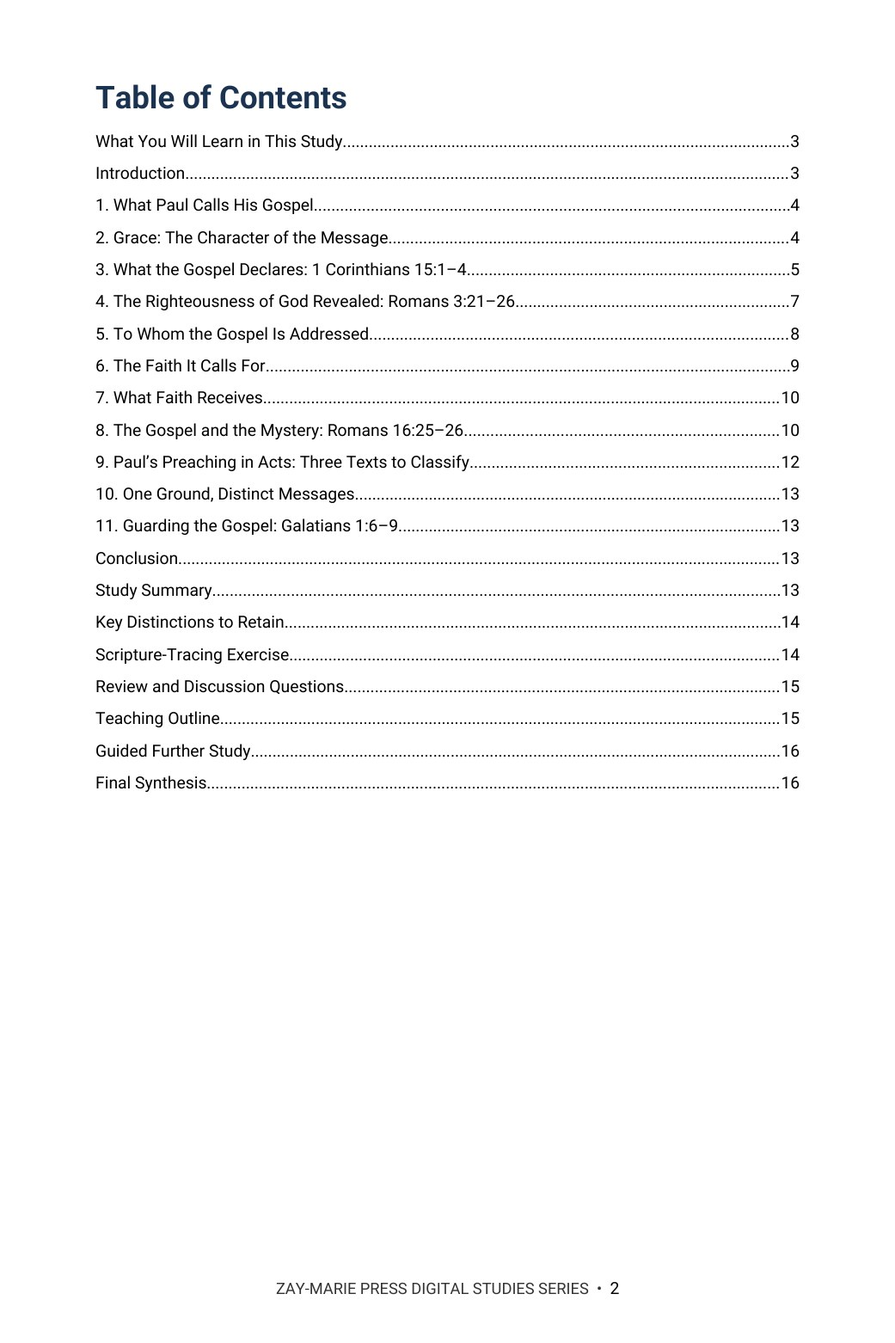
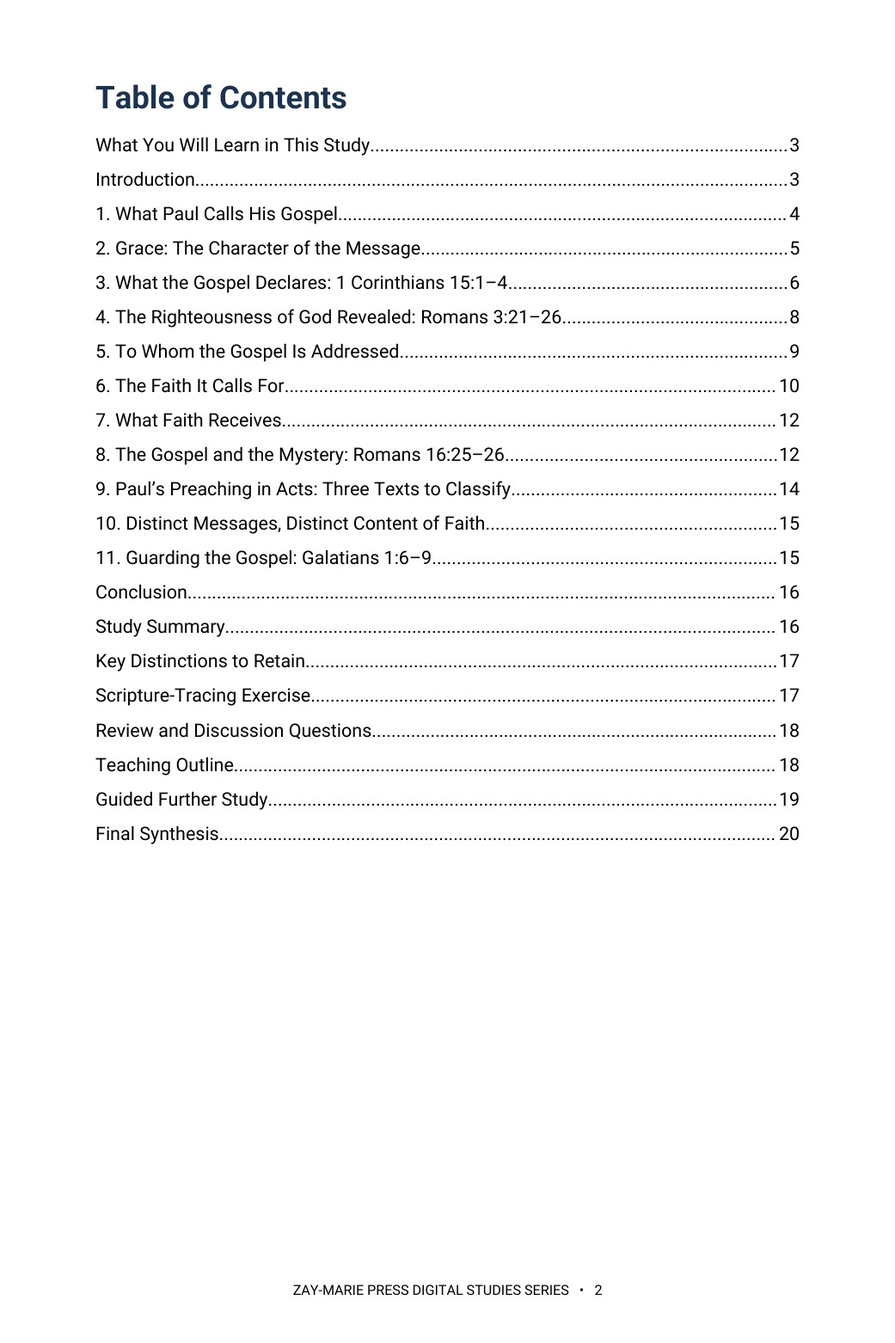
Study 43: Rule 19 retrofit, 20 pages, previews and trackers updated
Claude-Session: https://claude.ai/code/session_01KcENxFzE91mCRyTPWhcwnE

Changed region(s): [[0.0922, 0.0922, 0.6455, 0.6453], [0.8607, 0.0922, 0.8915, 0.6453], [0.3074, 0.9526, 0.6455, 0.9834]]

diff --git a/study-43-the-gospel-of-the-grace-of-god.html b/study-43-the-gospel-of-the-grace-of-god.html
@@ -1,5 +1,5 @@
 <!doctype html>
 <html lang="en"><head><meta charset="utf-8"><meta name="viewport" content="width=device-width,initial-scale=1"><title>The Gospel of the Grace of God | Zay-Marie Press</title><meta name="description" content="Paul called it “my gospel.” Define its content from 1 Corinthians 15 and Romans 3, its audience, the faith it calls for, and how it relates to the Mystery revealed through him. Preview Study 43 from Zay-Marie Press."><link rel="stylesheet" href="styles.css?v=20260921-4"><link rel="icon" type="image/png" href="assets/zay-marie-press-favicon.png"><style>
 .study-detail-page{background:#fff;color:#252525}.detail-hero{background:linear-gradient(135deg,#f8f5ec,#e3ece2);padding:58px 0}.detail-hero-grid{display:grid;grid-template-columns:minmax(250px,.72fr) minmax(0,1.28fr);gap:58px;align-items:center}.detail-cover{max-width:390px;margin:auto}.detail-cover img{display:block;width:100%;height:auto;box-shadow:0 14px 36px rgba(8,45,69,.18)}.detail-hero h1{font-size:clamp(2.7rem,5vw,4.7rem);line-height:1.02;margin:8px 0 10px;color:#143823}.detail-subtitle{font-family:Georgia,serif;font-size:1.35rem;font-weight:700;color:#082d45;margin:0 0 7px}.detail-kicker{font-family:Georgia,serif;font-style:italic;font-size:1.05rem;color:#4a4a44;margin:0 0 22px}.detail-copy{font-size:1.08rem;line-height:1.65;max-width:760px}.detail-buyline{display:flex;align-items:center;gap:18px;flex-wrap:wrap;margin-top:25px}.detail-price{font-family:Georgia,serif;font-size:2rem;font-weight:700;color:#143823}.detail-format,.preview-card .page-no{font-family:Arial,sans-serif;font-size:.76rem;font-weight:700;letter-spacing:.1em;text-transform:uppercase;color:#176b3a}.detail-button{display:inline-block;background:#176b3a;color:#fff;padding:13px 22px;font-family:Arial,sans-serif;font-size:.8rem;font-weight:700;letter-spacing:.07em;text-transform:uppercase}.detail-button.pending{opacity:.72;cursor:default}.detail-section{padding:66px 0}.detail-section.soft{background:#f6f7f2}.detail-section.cream{background:#faf8f2}.detail-section h2{color:#143823;margin:6px 0 18px;font-size:clamp(2rem,3.4vw,3rem)}.detail-section .lead{max-width:920px;font-size:1.1rem;line-height:1.62}.study-distinction{max-width:920px;margin-top:28px;margin-bottom:28px;padding:26px 28px;background:#fff;border:1px solid #d8d1bf;border-left:4px solid #b8871c}.study-distinction h3{margin:0 0 10px;color:#143823}.study-distinction p{margin:0 0 14px;line-height:1.62}.study-distinction a{font-family:Arial,sans-serif;font-weight:700;color:#176b3a;text-decoration:none}.study-points{display:grid;grid-template-columns:repeat(3,1fr);gap:18px;margin-top:28px;margin-bottom:28px}.study-point,.scripture-card,.preview-card,.include-item{background:#fff;border:1px solid var(--line);text-align:left}.study-point{border-top:3px solid #176b3a;padding:22px}.study-point h3{color:#143823;margin:0 0 8px;font-size:1.2rem}.study-point p,.scripture-card p,.preview-card p,.include-item p{margin:0;line-height:1.55}.scripture-grid{display:grid;grid-template-columns:repeat(4,1fr);gap:14px;margin-top:24px;margin-bottom:24px}.scripture-card{padding:22px 20px;color:#143823}.scripture-card h3{margin:0 0 9px;font-family:Georgia,serif;font-size:1rem;line-height:1.35}.scripture-card p{font-size:.94rem;color:#45453f}.excerpt{max-width:900px;margin:28px auto;border-left:4px solid #b8871c;padding:10px 0 10px 28px}.excerpt blockquote{font-family:Georgia,serif;font-size:clamp(1.45rem,2.5vw,2rem);line-height:1.45;color:#143823;margin:0 0 16px}.excerpt p{line-height:1.6;margin:0}.preview-grid{display:grid;grid-template-columns:repeat(3,1fr);gap:20px;margin-top:28px;margin-bottom:28px}.preview-card{padding:18px;min-height:210px;box-shadow:0 7px 20px rgba(20,40,25,.05)}.preview-image-link{display:block;margin:0 0 18px}.preview-image-link img{display:block;width:100%;height:auto;border:1px solid #d8d1bf;box-shadow:0 8px 22px rgba(20,40,25,.1);transition:transform .18s ease,box-shadow .18s ease}.preview-image-link:hover img{transform:translateY(-2px);box-shadow:0 11px 28px rgba(20,40,25,.16)}.preview-card h3{color:#143823;margin:8px 0 10px}.preview-instruction{margin:10px 0 0;font-family:Arial,sans-serif;font-size:.78rem;letter-spacing:.04em;color:#5b5b55}.includes-grid{display:grid;grid-template-columns:repeat(4,1fr);gap:14px;margin-top:26px}.include-item{padding:22px 20px;color:#143823}.include-item h3{margin:0 0 9px;font-family:Arial,sans-serif;font-size:.86rem;line-height:1.35;letter-spacing:.02em}.include-item p{font-size:.94rem;color:#45453f}.final-buy{background:#082d45;color:#fff;border-top:4px solid #b8871c;padding:42px 48px;display:grid;grid-template-columns:1fr auto;gap:36px;align-items:center}.final-buy .eyebrow,.final-buy h2,.final-buy .detail-price{color:#fff}.final-buy h2{margin:7px 0 6px}.final-buy p{margin:0}.final-offer{text-align:center}.back-link{display:inline-block;margin-top:18px;color:#143823;font-family:Arial,sans-serif;font-weight:700;text-decoration:none}.preview-lightbox{position:fixed;inset:0;z-index:10000;display:none;align-items:flex-start;justify-content:center;background:rgba(8,22,16,.88);padding:24px;overflow:auto}.preview-lightbox.open{display:flex}.preview-lightbox img{display:block;width:auto;height:auto;max-width:none;box-shadow:0 18px 55px rgba(0,0,0,.4);background:#fff}.preview-lightbox-close{position:fixed;top:18px;right:24px;z-index:10001;width:46px;height:46px;border:1px solid rgba(255,255,255,.65);border-radius:50%;background:rgba(0,0,0,.55);color:#fff;font:32px/1 Arial,sans-serif;cursor:pointer}@media(max-width:900px){.detail-hero-grid{grid-template-columns:1fr;gap:34px}.detail-cover{max-width:330px}.study-points{grid-template-columns:repeat(2,1fr)}.scripture-grid,.includes-grid{grid-template-columns:repeat(2,1fr)}.preview-grid,.final-buy{grid-template-columns:1fr}.final-offer{text-align:left}}@media(max-width:560px){.detail-hero{padding:42px 0}.detail-section{padding:50px 0}.study-points,.scripture-grid,.includes-grid{grid-template-columns:1fr}.final-buy{padding:32px 24px}.detail-buyline{align-items:flex-start;flex-direction:column;gap:8px}.preview-lightbox{padding:58px 10px 24px}.preview-lightbox img{width:100%;max-width:100%;height:auto}} .detail-hero h1{font-size:clamp(2.1rem,4.2vw,3.7rem);line-height:1.08}</style></head><body class="study-detail-page">
-<header class="site-header"><div class="wrap nav"><a class="logo" href="index.html" aria-label="Zay-Marie Press home"><img src="assets/zay-marie-press-logo-hq.png" alt="Zay-Marie Press" width="420" height="238"></a><button class="menu-toggle" type="button" aria-expanded="false" aria-controls="primary-nav">MENU</button><nav aria-label="Primary navigation" class="primary-nav" id="primary-nav"><a href="index.html">HOME</a><a href="books.html">BOOKS</a><a href="series.html">SERIES</a><a class="active" aria-current="page" href="digital-studies.html">DIGITAL STUDIES</a><a href="biblical-hermeneutics-course.html">COURSE</a><a href="about.html">ABOUT</a><a href="resources.html">RESOURCES</a><a href="contact.html">CONTACT</a></nav></div></header><main><section class="detail-hero"><div class="wrap detail-hero-grid"><div class="detail-cover"><picture><source srcset="assets/study-43-cover.webp" type="image/webp"><img src="assets/study-43-cover.jpg" alt="The Gospel of the Grace of God — Study 43 cover"></picture></div><div><div class="eyebrow">STUDY 43 · DIGITAL STUDY</div><h1>The Gospel of the Grace of God</h1><p class="detail-subtitle">Paul’s Gospel: Its Content, Its Audience, and the Faith It Calls For</p><p class="detail-kicker">A Biblical Definition of Paul’s Gospel — Its Names, Its Content, Its Audience, and the Faith It Calls For</p><p class="detail-copy">Paul described his whole ministry in one phrase. He told the elders of Ephesus that he counted nothing dear to himself so that he might finish “the ministry, which I have received of the Lord Jesus, to testify the gospel of the grace of God” (Acts 20:24). Many readers use the word “gospel” for any presentation of Christ. Paul used it with precision. He spoke of “my gospel,” warned against “another gospel,” and pronounced a curse on anyone who changed it.</p><p class="detail-copy">This study asks what that gospel is: what Paul calls it, what it declares, to whom it is addressed, what response it calls for, and how it relates to the Mystery revealed through him. It does not repeat the full comparison with the Gospel of the Kingdom, which Study 2 examines, or the argument of James 2, which Study 15 treats.</p><div class="detail-buyline"><span class="detail-price">$5.99</span><span class="detail-format">Digital PDF · 16 Pages</span><span class="detail-button pending" aria-disabled="true">Checkout Coming Soon</span></div></div></div></section><section class="detail-section"><div class="wrap"><div class="eyebrow">ABOUT THIS STUDY</div><h2>One Gospel, Defined With Precision</h2><p class="lead">Paul spoke of his gospel with exact language: its names, its content, its audience, and the response it calls for. Reading those distinctions in order removes the vagueness that lets “gospel” mean whatever a reader assumes.</p><p class="lead">This study follows Paul’s own words rather than a general definition. It states what he calls the message, what 1 Corinthians 15:1–4 declares as its content, how Romans 3:21–26 explains the righteousness it reveals, and why he treated any addition to faith as grounds for a curse.</p><p class="lead">This is not a study of the Kingdom message Israel was called to believe, which Study 2 defines on its own terms, nor of the Mystery’s full revealed content, which Study 6 identifies separately, nor of when the Body itself began, which Study 11 asks directly. Its task is narrower: to hold Paul’s gospel to his own stated terms rather than a general definition of the word, and to show why treating it as one more variation on a message announced to Israel empties his own distinctions of their force.</p><div class="study-distinction"><h3>How These Studies Relate</h3><p>Study 43 defines the gospel Paul preached for the Body of Christ — its names, its content, its audience, and the faith it calls for.</p><p><a href="study-02-the-gospel-of-the-kingdom.html">Study 2 — The Gospel of the Kingdom</a> Read the Kingdom message Israel was called to believe; this study distinguishes it from Paul’s gospel without merging their audiences, content, or programmatic authority.</p><p><a href="study-06-the-mystery-revealed-through-paul.html">Study 6 — The Mystery Revealed Through Paul</a> Examine the previously hidden truth Paul was given to reveal; this study relates that Mystery to the gospel he preached without collapsing the two.</p><p><a href="study-11-the-beginning-of-the-body-of-christ.html">Study 11 — The Beginning of the Body of Christ</a> Ask when the Body began; this study identifies the gospel by which its members are justified, reconciled, and placed into that Body.</p><p class="connection-guide-link"><a href="study-connections.html#study-43">Explore the full connection guide for Study 43 →</a></p></div></div></section><section class="detail-section soft"><div class="wrap"><div class="eyebrow">WHAT YOU’LL STUDY</div><h2>Define the Gospel From Paul’s Own Words</h2><div class="study-points"><div class="study-point"><h3>The Names Paul Gives It</h3><p>See what “the gospel of God,” “the gospel of Christ,” “the gospel of the grace of God,” and “my gospel” each identify.</p></div><div class="study-point"><h3>Grace as Its Character</h3><p>Define grace by contrast with debt, and test what that definition means for every earned addition.</p></div><div class="study-point"><h3>Its Content: 1 Corinthians 15</h3><p>State the three facts Paul names as of first importance: died, buried, rose again.</p></div><div class="study-point"><h3>Its Ground: Romans 3:21–26</h3><p>See how God is both just and the justifier through the propitiation in Christ’s blood.</p></div><div class="study-point"><h3>Its Audience and Its Faith</h3><p>Read to whom Paul addresses the gospel, what response it calls for, and what he says the one who believes receives.</p></div><div class="study-point"><h3>The Gospel and the Mystery</h3><p>Test how the gospel relates to the Mystery revealed through Paul.</p></div></div></div></section><section class="detail-section cream"><div class="wrap"><div class="eyebrow">KEY SCRIPTURES</div><h2>Examine the Passages for Yourself</h2><div class="scripture-grid"><div class="scripture-card"><h3>Acts 20:24</h3><p>Paul names the message he counted his whole ministry to testify: “the gospel of the grace of God.”</p></div><div class="scripture-card"><h3>1 Corinthians 15:3–4</h3><p>Christ died, was buried, and rose again “according to the scriptures” — the gospel’s content stated in three clauses.</p></div><div class="scripture-card"><h3>Romans 3:21–26</h3><p>The righteousness of God is manifested, so that He is both just and the justifier of the one who believes.</p></div><div class="scripture-card"><h3>Romans 1:16</h3><p>“To the Jew first, and also to the Greek” — the gospel’s audience and the order of its address.</p></div><div class="scripture-card"><h3>Romans 4:5</h3><p>“To him that worketh not, but believeth” — faith alone, without works, counted for righteousness.</p></div><div class="scripture-card"><h3>Ephesians 1:13–14</h3><p>The one who believes is sealed with the Holy Spirit, the earnest of the inheritance.</p></div><div class="scripture-card"><h3>Romans 16:25–26</h3><p>The gospel opens onto “the revelation of the mystery” made known through Paul.</p></div><div class="scripture-card"><h3>Galatians 1:6–9</h3><p>Paul’s warning against preaching “another gospel” to the churches of Galatia.</p></div></div></div></section><section class="detail-section"><div class="wrap"><div class="eyebrow">FROM THE STUDY</div><h2>Foretold, Yet Hidden</h2><div class="excerpt"><blockquote>“Foretold facts ≠ the hidden purpose revealed through Paul.”</blockquote><p>The gospel’s content was written beforehand in the Law and the Prophets. The Mystery Paul was given to reveal is a distinct truth, previously hidden and revealed through him — related in subject, but never merged.</p></div></div></section><section class="detail-section soft"><div class="wrap"><div class="eyebrow">A LOOK INSIDE</div><h2>Preview the Study Before You Purchase</h2><p class="preview-instruction">Click any page to enlarge it for reading.</p><div class="preview-grid"><div class="preview-card"><a class="preview-image-link" data-preview-lightbox href="assets/study-43-page-2.jpg"><img src="assets/study-43-page-2.jpg" alt="Study 43 interior preview — page 2, table of contents"/></a><div class="page-no">Page 2</div><h3>Table of Contents</h3><p>See the full structure of the study, from the introduction through the final synthesis.</p></div><div class="preview-card"><a class="preview-image-link" data-preview-lightbox href="assets/study-43-page-3.jpg"><img src="assets/study-43-page-3.jpg" alt="Study 43 interior preview — page 3, what you will learn"/></a><div class="page-no">Page 3</div><h3>What You Will Learn</h3><p>See the study’s goals, controls, and central question at a glance.</p></div><div class="preview-card"><a class="preview-image-link" data-preview-lightbox href="assets/study-43-page-8.jpg"><img src="assets/study-43-page-8.jpg" alt="Study 43 interior preview — page 8, to whom the gospel is addressed"/></a><div class="page-no">Page 8</div><h3>To Whom the Gospel Is Addressed</h3><p>See how the study reads “no difference” and “to the Jew first” in Paul’s own words.</p></div></div></div></section><section class="detail-section"><div class="wrap"><div class="eyebrow">WHAT’S INCLUDED</div><h2>A Focused Study Built for<br>Understanding and Teaching</h2><div class="includes-grid"><div class="include-item"><h3>16-Page In-Depth Biblical Study</h3><p>A careful definition of the gospel Paul preached for the Body of Christ.</p></div><div class="include-item"><h3>11 Core Teaching Sections</h3><p>Progress from the gospel’s names through its content, ground, audience, and its relation to the Mystery.</p></div><div class="include-item"><h3>Five Reference Tables</h3><p>Compare the names of the gospel, test common additions to faith against Paul’s own words, and read key passages side by side in the KJV.</p></div><div class="include-item"><h3>16 Review Questions</h3><p>Test the study’s distinctions concerning content, audience, faith, and the Mystery.</p></div><div class="include-item"><h3>Teaching Outline</h3><p>A ready ten-point framework for teaching the gospel of the grace of God with precision.</p></div><div class="include-item"><h3>Guided Further Study</h3><p>Return to the gospel’s names, its content, its audience, and the Mystery with directed questions.</p></div><div class="include-item"><h3>Scripture-Tracing Exercise</h3><p>Trace the gospel’s key terms across Paul’s letters in their own context.</p></div><div class="include-item"><h3>Final Synthesis Exercise</h3><p>Bring the evidence together in one coherent, Scripture-based explanation.</p></div></div></div></section><section class="detail-section cream"><div class="wrap"><div class="final-buy"><div><div class="eyebrow">STUDY 43 · DIGITAL STUDY</div><h2>The Gospel of the Grace of God</h2><p>16-page digital PDF · For personal use</p></div><div class="final-offer"><div class="detail-price">$5.99</div><span class="detail-button pending" aria-disabled="true">Checkout Coming Soon</span></div></div><a class="back-link" href="digital-studies.html">← Back to All Digital Studies</a></div></section><section class="study-method-course-bridge"><div class="wrap"><div class="study-method-course-panel"><div><div class="eyebrow">BUILD THE INTERPRETIVE METHOD</div><h2>Want More Than a Focused Study?</h2><p>Digital Studies examine particular biblical subjects and difficult passages. The 40-lesson Biblical Hermeneutics course teaches a complete, repeatable method for establishing meaning in context, determining proper assignment, and making responsible application.</p></div><a class="btn btn-primary" href="biblical-hermeneutics-course.html">BIBLICAL HERMENEUTICS COURSE</a></div></div></section></main>
+<header class="site-header"><div class="wrap nav"><a class="logo" href="index.html" aria-label="Zay-Marie Press home"><img src="assets/zay-marie-press-logo-hq.png" alt="Zay-Marie Press" width="420" height="238"></a><button class="menu-toggle" type="button" aria-expanded="false" aria-controls="primary-nav">MENU</button><nav aria-label="Primary navigation" class="primary-nav" id="primary-nav"><a href="index.html">HOME</a><a href="books.html">BOOKS</a><a href="series.html">SERIES</a><a class="active" aria-current="page" href="digital-studies.html">DIGITAL STUDIES</a><a href="biblical-hermeneutics-course.html">COURSE</a><a href="about.html">ABOUT</a><a href="resources.html">RESOURCES</a><a href="contact.html">CONTACT</a></nav></div></header><main><section class="detail-hero"><div class="wrap detail-hero-grid"><div class="detail-cover"><picture><source srcset="assets/study-43-cover.webp" type="image/webp"><img src="assets/study-43-cover.jpg" alt="The Gospel of the Grace of God — Study 43 cover"></picture></div><div><div class="eyebrow">STUDY 43 · DIGITAL STUDY</div><h1>The Gospel of the Grace of God</h1><p class="detail-subtitle">Paul’s Gospel: Its Content, Its Audience, and the Faith It Calls For</p><p class="detail-kicker">A Biblical Definition of Paul’s Gospel — Its Names, Its Content, Its Audience, and the Faith It Calls For</p><p class="detail-copy">Paul described his whole ministry in one phrase. He told the elders of Ephesus that he counted nothing dear to himself so that he might finish “the ministry, which I have received of the Lord Jesus, to testify the gospel of the grace of God” (Acts 20:24). Many readers use the word “gospel” for any presentation of Christ. Paul used it with precision. He spoke of “my gospel,” warned against “another gospel,” and pronounced a curse on anyone who changed it.</p><p class="detail-copy">This study asks what that gospel is: what Paul calls it, what it declares, to whom it is addressed, what response it calls for, and how it relates to the Mystery revealed through him. It does not repeat the full comparison with the Gospel of the Kingdom, which Study 2 examines, or the argument of James 2, which Study 15 treats.</p><div class="detail-buyline"><span class="detail-price">$5.99</span><span class="detail-format">Digital PDF · 20 Pages</span><span class="detail-button pending" aria-disabled="true">Checkout Coming Soon</span></div></div></div></section><section class="detail-section"><div class="wrap"><div class="eyebrow">ABOUT THIS STUDY</div><h2>One Gospel, Defined With Precision</h2><p class="lead">Paul spoke of his gospel with exact language: its names, its content, its audience, and the response it calls for. Reading those distinctions in order removes the vagueness that lets “gospel” mean whatever a reader assumes.</p><p class="lead">This study follows Paul’s own words rather than a general definition. It states what he calls the message, what 1 Corinthians 15:1–4 declares as its content, how Romans 3:21–26 explains the righteousness it reveals, and why he treated any addition to faith as grounds for a curse.</p><p class="lead">This is not a study of the Kingdom message Israel was called to believe, which Study 2 defines on its own terms, nor of the Mystery’s full revealed content, which Study 6 identifies separately, nor of when the Body itself began, which Study 11 asks directly. Its task is narrower: to hold Paul’s gospel to his own stated terms rather than a general definition of the word, and to show why treating it as one more variation on a message announced to Israel empties his own distinctions of their force.</p><div class="study-distinction"><h3>How These Studies Relate</h3><p>Study 43 defines the gospel Paul preached for the Body of Christ — its names, its content, its audience, and the faith it calls for.</p><p><a href="study-02-the-gospel-of-the-kingdom.html">Study 2 — The Gospel of the Kingdom</a> Read the Kingdom message Israel was called to believe; this study distinguishes it from Paul’s gospel without merging their audiences, content, or programmatic authority.</p><p><a href="study-06-the-mystery-revealed-through-paul.html">Study 6 — The Mystery Revealed Through Paul</a> Examine the previously hidden truth Paul was given to reveal; this study relates that Mystery to the gospel he preached without collapsing the two.</p><p><a href="study-11-the-beginning-of-the-body-of-christ.html">Study 11 — The Beginning of the Body of Christ</a> Ask when the Body began; this study identifies the gospel by which its members are justified, reconciled, and placed into that Body.</p><p class="connection-guide-link"><a href="study-connections.html#study-43">Explore the full connection guide for Study 43 →</a></p></div></div></section><section class="detail-section soft"><div class="wrap"><div class="eyebrow">WHAT YOU’LL STUDY</div><h2>Define the Gospel From Paul’s Own Words</h2><div class="study-points"><div class="study-point"><h3>The Names Paul Gives It</h3><p>See what “the gospel of God,” “the gospel of Christ,” “the gospel of the grace of God,” and “my gospel” each identify.</p></div><div class="study-point"><h3>Grace as Its Character</h3><p>Define grace by contrast with debt, and test what that definition means for every earned addition.</p></div><div class="study-point"><h3>Its Content: 1 Corinthians 15</h3><p>State the three facts Paul names as of first importance: died, buried, rose again.</p></div><div class="study-point"><h3>Its Ground: Romans 3:21–26</h3><p>See how God is both just and the justifier through the propitiation in Christ’s blood.</p></div><div class="study-point"><h3>Its Audience and Its Faith</h3><p>Read to whom Paul addresses the gospel, what response it calls for, and what he says the one who believes receives.</p></div><div class="study-point"><h3>The Gospel and the Mystery</h3><p>Test how the gospel relates to the Mystery revealed through Paul.</p></div></div></div></section><section class="detail-section cream"><div class="wrap"><div class="eyebrow">KEY SCRIPTURES</div><h2>Examine the Passages for Yourself</h2><div class="scripture-grid"><div class="scripture-card"><h3>Acts 20:24</h3><p>Paul names the message he counted his whole ministry to testify: “the gospel of the grace of God.”</p></div><div class="scripture-card"><h3>1 Corinthians 15:3–4</h3><p>Christ died, was buried, and rose again “according to the scriptures” — the gospel’s content stated in three clauses.</p></div><div class="scripture-card"><h3>Romans 3:21–26</h3><p>The righteousness of God is manifested, so that He is both just and the justifier of the one who believes.</p></div><div class="scripture-card"><h3>Romans 1:16</h3><p>“To the Jew first, and also to the Greek” — the gospel’s audience and the order of its address.</p></div><div class="scripture-card"><h3>Romans 4:5</h3><p>“To him that worketh not, but believeth” — faith alone, without works, counted for righteousness.</p></div><div class="scripture-card"><h3>Ephesians 1:13–14</h3><p>The one who believes is sealed with the Holy Spirit, the earnest of the inheritance.</p></div><div class="scripture-card"><h3>Romans 16:25–26</h3><p>The gospel opens onto “the revelation of the mystery” made known through Paul.</p></div><div class="scripture-card"><h3>Galatians 1:6–9</h3><p>Paul’s warning against preaching “another gospel” to the churches of Galatia.</p></div></div></div></section><section class="detail-section"><div class="wrap"><div class="eyebrow">FROM THE STUDY</div><h2>Foretold, Yet Hidden</h2><div class="excerpt"><blockquote>“Foretold facts ≠ the hidden purpose revealed through Paul.”</blockquote><p>The gospel’s content was written beforehand in the Law and the Prophets. The Mystery Paul was given to reveal is a distinct truth, previously hidden and revealed through him — related in subject, but never merged.</p></div></div></section><section class="detail-section soft"><div class="wrap"><div class="eyebrow">A LOOK INSIDE</div><h2>Preview the Study Before You Purchase</h2><p class="preview-instruction">Click any page to enlarge it for reading.</p><div class="preview-grid"><div class="preview-card"><a class="preview-image-link" data-preview-lightbox href="assets/study-43-page-2.jpg"><img src="assets/study-43-page-2.jpg" alt="Study 43 interior preview — page 2, table of contents"/></a><div class="page-no">Page 2</div><h3>Table of Contents</h3><p>See the full structure of the study, from the introduction through the final synthesis.</p></div><div class="preview-card"><a class="preview-image-link" data-preview-lightbox href="assets/study-43-page-3.jpg"><img src="assets/study-43-page-3.jpg" alt="Study 43 interior preview — page 3, what you will learn"/></a><div class="page-no">Page 3</div><h3>What You Will Learn</h3><p>See the study’s goals, controls, and central question at a glance.</p></div><div class="preview-card"><a class="preview-image-link" data-preview-lightbox href="assets/study-43-page-10.jpg"><img src="assets/study-43-page-10.jpg" alt="Study 43 interior preview — page 10, the gospel’s audience: no difference and “to the Jew first”"/></a><div class="page-no">Page 10</div><h3>To Whom the Gospel Is Addressed</h3><p>See how the study reads “no difference” and “to the Jew first” in Paul’s own words.</p></div></div></div></section><section class="detail-section"><div class="wrap"><div class="eyebrow">WHAT’S INCLUDED</div><h2>A Focused Study Built for<br>Understanding and Teaching</h2><div class="includes-grid"><div class="include-item"><h3>20-Page In-Depth Biblical Study</h3><p>A careful definition of the gospel Paul preached for the Body of Christ.</p></div><div class="include-item"><h3>11 Core Teaching Sections</h3><p>Progress from the gospel’s names through its content, ground, audience, and its relation to the Mystery.</p></div><div class="include-item"><h3>Five Reference Tables</h3><p>Compare the names of the gospel, test common additions to faith against Paul’s own words, and read key passages side by side in the KJV.</p></div><div class="include-item"><h3>16 Review Questions</h3><p>Test the study’s distinctions concerning content, audience, faith, and the Mystery.</p></div><div class="include-item"><h3>Teaching Outline</h3><p>A ready ten-point framework for teaching the gospel of the grace of God with precision.</p></div><div class="include-item"><h3>Guided Further Study</h3><p>Return to the gospel’s names, its content, its audience, and the Mystery with directed questions.</p></div><div class="include-item"><h3>Scripture-Tracing Exercise</h3><p>Trace the gospel’s key terms across Paul’s letters in their own context.</p></div><div class="include-item"><h3>Final Synthesis Exercise</h3><p>Bring the evidence together in one coherent, Scripture-based explanation.</p></div></div></div></section><section class="detail-section cream"><div class="wrap"><div class="final-buy"><div><div class="eyebrow">STUDY 43 · DIGITAL STUDY</div><h2>The Gospel of the Grace of God</h2><p>20-page digital PDF · For personal use</p></div><div class="final-offer"><div class="detail-price">$5.99</div><span class="detail-button pending" aria-disabled="true">Checkout Coming Soon</span></div></div><a class="back-link" href="digital-studies.html">← Back to All Digital Studies</a></div></section><section class="study-method-course-bridge"><div class="wrap"><div class="study-method-course-panel"><div><div class="eyebrow">BUILD THE INTERPRETIVE METHOD</div><h2>Want More Than a Focused Study?</h2><p>Digital Studies examine particular biblical subjects and difficult passages. The 40-lesson Biblical Hermeneutics course teaches a complete, repeatable method for establishing meaning in context, determining proper assignment, and making responsible application.</p></div><a class="btn btn-primary" href="biblical-hermeneutics-course.html">BIBLICAL HERMENEUTICS COURSE</a></div></div></section></main>
 <div class="preview-lightbox" id="preview-lightbox" role="dialog" aria-modal="true" aria-label="Expanded study preview"><button class="preview-lightbox-close" type="button" aria-label="Close preview">×</button><img id="preview-lightbox-image" alt=""></div><footer class="site-footer"><div class="wrap footer-grid"><div class="footer-about"><h3>Zay-Marie Press</h3><p class="footer-tagline"><em>Where the Bible Means What It Says.</em></p><p>Zay-Marie Press is a Christian theological publisher dedicated to producing doctrinally precise, carefully structured biblical resources that equip pastors, teachers, and serious students with clarity, depth, and Scripture-anchored truth.</p><p><a href="https://zaymariepress.com">zaymariepress.com</a><br><a href="mailto:info@zaymariepress.com">info@zaymariepress.com</a></p></div><div class="footer-column"><h3>Explore</h3><div class="footer-links-stacked"><a href="books.html">Books</a><br><a href="series.html">Series</a><br><a href="biblical-hermeneutics-course.html">Course</a><br><a href="digital-studies.html">Digital Studies</a><br><a href="resources.html">Resources</a><br><a href="bible-book-summaries.html">Bible Book Summaries</a><br><a href="doctrinal-packets.html">Doctrinal Packets</a><br><a href="historical-drift.html">Historical Drift</a><br><a href="about.html">About</a><br><a href="contact.html">Contact</a></div></div><div class="footer-column"><h3>Reader Support</h3><div class="footer-links-stacked"><a href="reader-support.html#faq">FAQ</a><br><a href="reader-support.html#shipping-returns">Shipping &amp; Returns</a><br><a href="reader-support.html#digital-downloads">Digital Downloads</a><br><a href="reader-support.html#contact-support">Contact Support</a></div></div><div class="footer-column"><h3>Acts Overlap</h3><p><strong>Acts Overlap Theology Series</strong></p><p><em>Two Distinct Streams. One Overlap.</em></p><p><a href="series.html">Series Overview</a></p></div></div><div class="wrap footer-bottom">© 2026 Zay-Marie Press. All rights reserved.</div></footer><script src="site.js"></script><script>const lightbox=document.getElementById('preview-lightbox'),lightboxImage=document.getElementById('preview-lightbox-image'),closeLightbox=()=>{lightbox.classList.remove('open');lightboxImage.src='';};document.querySelectorAll('[data-preview-lightbox]').forEach(link=>link.addEventListener('click',event=>{event.preventDefault();lightboxImage.src=link.href;lightboxImage.alt=link.querySelector('img').alt;lightbox.classList.add('open');}));document.querySelector('.preview-lightbox-close').addEventListener('click',closeLightbox);lightbox.addEventListener('click',event=>{if(event.target===lightbox)closeLightbox();});document.addEventListener('keydown',event=>{if(event.key==='Escape')closeLightbox();});</script></body></html>

diff --git a/site.js b/site.js
@@ -62,7 +62,7 @@ const resourceModal=document.querySelector('#resource-modal'), resourceModalTitl
 if(resourceModal&&resourceModalTriggers.length){const closeResourceModal=()=>{resourceModal.hidden=true;document.body.classList.remove('resource-modal-open');lastResourceTrigger?.focus();};resourceModalTriggers.forEach(trigger=>trigger.addEventListener('click',()=>{lastResourceTrigger=trigger;if(resourceModalTitle)resourceModalTitle.textContent=trigger.dataset.title||'Resource';if(resourceModalDescription)resourceModalDescription.textContent=trigger.dataset.description||'';if(resourceModalLink){resourceModalLink.href=trigger.dataset.href||'#';resourceModalLink.textContent=trigger.dataset.linkText||'OPEN RESOURCE';}resourceModal.hidden=false;document.body.classList.add('resource-modal-open');resourceModalClose?.focus();}));resourceModalClose?.addEventListener('click',closeResourceModal);resourceModal.addEventListener('click',e=>{if(e.target===resourceModal)closeResourceModal();});document.addEventListener('keydown',e=>{if(e.key==='Escape'&&!resourceModal.hidden)closeResourceModal();});}
 
 /* Display the verified final-PDF page count at the primary purchase decision point. */
-const digitalStudyPageCounts={1:17,2:19,3:16,4:18,5:16,6:16,7:14,8:13,9:16,10:20,11:15,12:14,13:19,14:15,15:15,16:16,17:18,18:18,19:16,20:16,21:17,22:16,23:14,24:16,25:17,26:16,27:16,28:16,29:19,30:17,31:18,32:19,33:18,34:16,35:16,36:16,37:16,38:16,39:16,40:16,41:16,42:16,43:16,44:16,45:16,46:16,47:16,48:16,49:17,50:16,51:16,52:16,53:16,54:16,55:16,56:16,57:16,58:16,59:16,60:18,61:16,62:16,63:16,64:16,65:16,66:16,67:16,68:16,69:16,70:16,71:16};
+const digitalStudyPageCounts={1:17,2:19,3:16,4:18,5:16,6:16,7:14,8:13,9:16,10:20,11:15,12:14,13:19,14:15,15:15,16:16,17:18,18:18,19:16,20:16,21:17,22:16,23:14,24:16,25:17,26:16,27:16,28:16,29:19,30:17,31:18,32:19,33:18,34:16,35:16,36:16,37:16,38:16,39:16,40:16,41:16,42:16,43:20,44:16,45:16,46:16,47:16,48:16,49:17,50:16,51:16,52:16,53:16,54:16,55:16,56:16,57:16,58:16,59:16,60:18,61:16,62:16,63:16,64:16,65:16,66:16,67:16,68:16,69:16,70:16,71:16};
 const digitalStudyMatch=window.location.pathname.match(/\/study-(\d+)-/i);
 const digitalStudyFormat=document.querySelector('.detail-hero .detail-format');
 if(digitalStudyMatch&&digitalStudyFormat){const studyNumber=Number(digitalStudyMatch[1]),pageCount=digitalStudyPageCounts[studyNumber];if(pageCount)digitalStudyFormat.textContent=`Digital PDF · ${pageCount} Pages`;}

diff --git a/CLAUDE.md b/CLAUDE.md
@@ -23,7 +23,7 @@ These are kept in the repo at `controlling-documents/` and are the current versi
 - As of v1.50 (publisher directive, 2026-10-03), the **What You Will Learn in This Study** section is always bulleted, never set as running paragraphs, written into this file in the same pass (Master Standard Section 3 item 4, Section 6 structure line, Section 22): a list of bullet points, each describing one process, textual marker or interpretive discipline the reader will practice (Section 17 still governs what they may say); at most one short lead-in line may stand above the bullets (for example, “By the end of this study, you should be able to:”); the Study Goal callout and the Study Outline keep their own forms. It governs every new study and every study rebuilt or retrofitted from now on; earlier studies take it when reopened or when the publisher directs. In every study check (Step 1), report whether the section is bulleted. First applied to Study 43.
 **`controlling-documents/Digital_Studies_Relationship_Map_v1.39.md`** — records each study's distinct subject, its related studies, the eight priced six-study collections, the Paul's Missionary Journeys cross-reference map, and the five primary catalog categories (currently version 1.39, covers Studies 1–71; update it as new studies publish, bump the version number, rename the file to match, and log the change in its own version-history table — mirroring the Master Standard's `_vX.Y` filename convention). Check a proposed topic against it before recommending or writing a new study. (2026-09-28: the file was missing from this repo despite this note referencing it; replaced from the publisher's copy and bumped v1.15→v1.25 in the same pass. If this note ever again points to a version not present under `controlling-documents/`, ask the publisher for a copy rather than proceeding without the check.)
 - **`controlling-documents/Digital_Studies_Category_Standard_v1.1.md`** — FINAL and binding (publisher, 2026-10-01): the rules for the five primary catalog categories (Foundations, Israel & Prophecy, Body of Christ, Passages, Doctrinal Themes), the ordered decision procedure for new studies, the precedents, all 71 fixed assignments, and the cover-label form for each category. Read it before placing any card or cover label. Do not ask the publisher where a study belongs; apply the procedure and state the result. Only the publisher changes a ruling; then bump this Standard's version and filename, re-letter the cover, and update the Relationship Map.
-- **`controlling-documents/Doctrinal_Upgrade_Retrofit_Plan_v1.55.md`** — working tracker for retrofitting Studies 1–59 to the 2026-10-02 doctrinal upgrade (Framework/PAM v1.1, Master Standard v1.40, Rules 7–17): withdrawn-wording search keys, impact tiers, waves and the per-study method. Read it before continuing the retrofit in any session; update status, bump the version and rename the file as work proceeds.
+- **`controlling-documents/Doctrinal_Upgrade_Retrofit_Plan_v1.56.md`** — working tracker for retrofitting Studies 1–59 to the 2026-10-02 doctrinal upgrade (Framework/PAM v1.1, Master Standard v1.40, Rules 7–17): withdrawn-wording search keys, impact tiers, waves and the per-study method. Read it before continuing the retrofit in any session; update status, bump the version and rename the file as work proceeds.
 - **`controlling-documents/Doctrinal_Packet_Standard_v0.3.md`** — Doctrinal Packet Standard (DRAFT; §7 approved). Governs the separate Doctrinal Packets product strand (5-page interpretive PDFs per Bible book — a print-friendly cover as page 1 plus 4 content pages, $2.99, KJV, pilot: Genesis, live at `packet-genesis.html`, hub `doctrinal-packets.html`; site pages say "5 Pages", cover styles live in `packets.css`, Old Testament blue and New Testament soft pale green, hub listed in Bible order). **Preview rule (publisher directive, 2026-09-29, packets only):** previews show about one page's worth in two cropped views (top of page 1 through the anchor texts; the chart section) — never the exegesis, architecture, Mystery contrast, logic chain, outline, or closing. Master Standard §16/§17 still govern Digital Studies. Bump the version and rename the file as the Standard is finalized.
 - **`controlling-documents/Preview_Page_Spoiler_Retrofit_Audit_v1.4.md`** — working tracker for the Studies 1–60 preview-page conclusion-spoiler retrofit (see the section below). Read it before continuing that audit in any session; update its status fields and changelog, bump the version, and rename the file to match as the audit proceeds — same `_vX.Y` convention as the other controlling documents. As of v1.1, the website-side half was DONE: all 60 studies' "What You'll Study" text was judged against the rule (methodology documented in the file) and 22 points across 11 studies were rewritten and pushed; an unrelated Study 22 content bug (Study 21's content had leaked into it) was also found and fixed. As of v1.2, the publisher supplied Studies 1–60's interior production PDFs and the interior-PDF half was also surveyed (read-only): 10 studies (37, 41, 45, 47, 48, 49, 51, 52, 53, 54) were found to have at least one interior "What You Will Learn" violation, 50 studies were confirmed compliant, and the orphaned `assets/study-45-sanctification-under-grace.docx` (removed from the repo per the publisher in v1.0) was confirmed word-for-word identical to Study 45's actual production interior PDF content. As of v1.3, the publisher supplied editable DOCX sources for all 10 violating studies; all 15 violating points were rewritten and approved, delivered as corrected final PDFs, and — along the way — a second defect was found and fixed (Studies 47 and 48's source DOCX still had an unintegrated cover placeholder despite both being long-published live with real covers; fixed by inserting the existing approved cover art). The website's "What You Will Learn" preview image (`study-NN-page-3.jpg`) was regenerated from the corrected content for all 10 studies and pushed to `main` (commit `cea1859`), verified against a fresh clone. **The website side of this audit is now fully compliant for all 60 studies.** Outstanding: the publisher's purchasable interior PDF files themselves have corrected versions delivered, but distribution to existing purchasers was decided by the publisher on 2026-09-29: silent swap of the files behind the existing downloads, no reissue notice (recorded in the v1.4 changelog entry; the product files are not in this repo).
 

diff --git a/controlling-documents/Doctrinal_Upgrade_Retrofit_Plan_v1.56.md b/controlling-documents/Doctrinal_Upgrade_Retrofit_Plan_v1.56.md
@@ -148,3 +148,4 @@ Working tracker for correcting published studies to the Framework/PAM v1.1, Mast
 - v1.53 (2026-10-03): Publisher rulings on the remaining finished-work hits, all KEEP (Body-specific, outside Rule 19): Study 54 page and its connections entry ("ground in Christ's finished work"); Study 31 judgments line ("not a trial to determine whether Christ’s finished work was sufficient"); resource-library.js and resource-library-overrides.js (New Believer guide, "Salvation by Grace Through Faith", devotional day 2). Website search for the withdrawn wording is CLOSED. The publisher will send the interior PDFs for Studies 12, 15, 31, 43 and 54 next; search them for the same wording.
 - v1.54 (2026-10-03): Studies 12 and 15 retrofitted for Rule 19 (publisher approved both steps). Study 12: "finished work" replaced by "Christ’s blood" at ten places (Study Goal, sections 6 and 9, Doctrinal Principle callout, review question 6, Final Synthesis); rebuilt at 14 pages (was 15), contents renumbered; `site.js` 12:14, page-count text 14, previews 2, 3, 5 re-rendered. Study 15: section 9 retitled "Distinct Administrations, Distinct Requirements"; finished-work and redemptive-accomplishment wording removed from 22 places; closing callout now "…AND HEAR EACH WRITER IN HIS OWN SETTING."; 15 pages unchanged; previews 2 and 3 re-rendered. Study 31: no change (all hits ruled KEEP; line 232 "provides the ground of salvation" kept as written, not ruled). Study 43 held for publisher rulings. Study 54 upload is pre-retrofit; nothing needed under Rule 19.
 - v1.55 (2026-10-03): Study 43 retrofit review copy built from the publisher’s approved wording (16 replacements; Rule 18 sentence verbatim): withdrawn shared-ground wording, internal terms ("Acts Overlap Theology", "Framework" anchors, "framework") removed, Section 10 retitled "Distinct Messages, Distinct Content of Faith", body reset to 10 pt, 20 pages (was 16); awaiting the publisher’s second approval for the website step (`site.js` 43:20, previews, page-count text). New rule, publisher directive: the What You Will Learn section is always bulleted (Master Standard v1.50 and CLAUDE.md; first applied to Study 43); earlier studies take it when reopened.
+- v1.56 (2026-10-03): Study 43 website step done on the publisher’s second approval: `site.js` 43:20; page-count text 20; previews 2, 3 re-rendered and the third preview moved from page 8 to page 10 (the gospel’s audience; `study-43-page-8.jpg` removed); local checks at 1280/390/360/320 clean. Final PDF/DOCX delivered.

diff --git a/controlling-documents/Digital_Studies_PAM_Audit_v1.150.md b/controlling-documents/Digital_Studies_PAM_Audit_v1.150.md
@@ -379,3 +379,4 @@ Study 15 PDF not yet supplied. Typography: none of Studies 2, 3, 6, 8 is in EB G
 - v1.147 (2026-10-03): Finished-work web-copy search closed; Study 54, Study 31 and resource-library lines kept by publisher ruling (see plan v1.53).
 - v1.148 (2026-10-03): Rule 19 applied to Studies 12 and 15 (see Retrofit Plan v1.54). Study 31 unchanged by ruling; Study 43 on hold.
 - v1.149 (2026-10-03): Study 43 review copy built (see Retrofit Plan v1.55); Master Standard v1.50 adds the bulleted What You Will Learn rule.
+- v1.150 (2026-10-03): Study 43 retrofitted and live (see Retrofit Plan v1.56).
